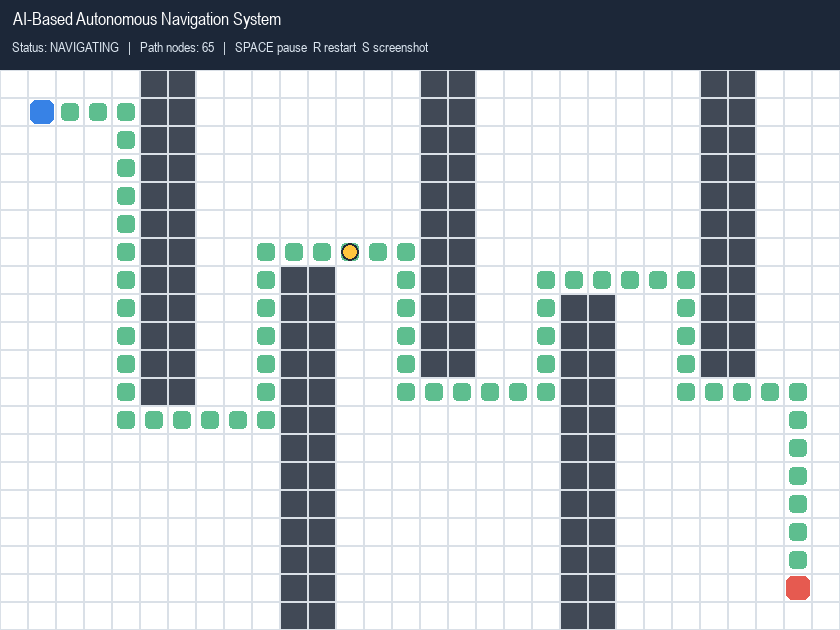
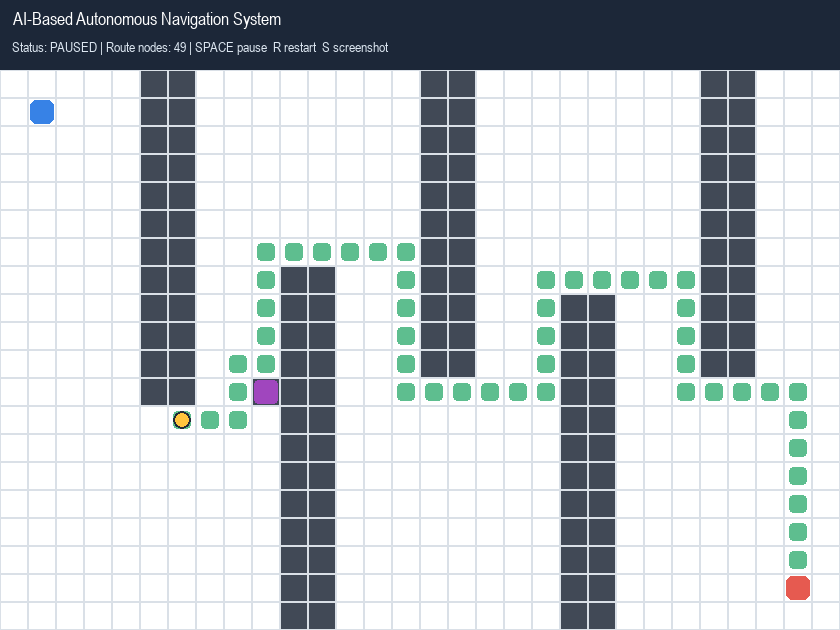
Add dynamic obstacle detection and A* replanning

diff --git a/src/simulator.py b/src/simulator.py
@@ -1,3 +1,4 @@
+
 import time
 from pathlib import Path
 
@@ -12,6 +13,10 @@ from src.grid import build_grid
 from src.metrics import save_run
 
 
+DYNAMIC_OBSTACLE_TRIGGER = 16
+OBSTACLE_AHEAD = 4
+
+
 def run_simulation():
     pygame.init()
     screen = pygame.display.set_mode((WINDOW_WIDTH, WINDOW_HEIGHT))
@@ -20,111 +25,271 @@ def run_simulation():
     font = pygame.font.SysFont("arial", 18)
     small_font = pygame.font.SysFont("arial", 14)
 
-    grid = build_grid()
-    path = astar(grid, START, GOAL)
-    if not path:
-        print("No valid path found. Check the map and start/goal positions.")
+    output_dir = Path("outputs")
+    output_dir.mkdir(exist_ok=True)
+
+    def reset_simulation():
+        grid = build_grid()
+        path = astar(grid, START, GOAL)
+        if not path:
+            return None
+
+        return {
+            "grid": grid,
+            "path": path,
+            "initial_path_nodes": len(path),
+            "agent_index": 0,
+            "frame_counter": 0,
+            "paused": False,
+            "finished": False,
+            "no_route": False,
+            "obstacle_added": False,
+            "dynamic_obstacle": None,
+            "replanned": False,
+            "start_time": time.perf_counter(),
+            "total_steps": 0,
+        }
+
+    state = reset_simulation()
+    if state is None:
+        print("No valid initial path found. Check the map.")
         pygame.quit()
         return
 
-    print(f"Path found: {len(path)} nodes")
-    print("Controls: SPACE = pause/resume | R = restart | S = save screenshot | ESC = quit")
-
-    agent_index = 0
-    frame_counter = 0
-    paused = False
-    finished = False
-    start_time = time.perf_counter()
-    end_time = None
-    output_dir = Path("outputs")
-    output_dir.mkdir(exist_ok=True)
+    print(f"Initial path found: {len(state['path'])} nodes")
+    print(
+        "Controls: SPACE = pause/resume | R = restart | "
+        "S = save screenshot | ESC = quit"
+    )
+    print("A temporary obstacle will appear automatically during the run.")
 
     running = True
     while running:
         for event in pygame.event.get():
             if event.type == pygame.QUIT:
                 running = False
+
             elif event.type == pygame.KEYDOWN:
                 if event.key == pygame.K_ESCAPE:
                     running = False
-                elif event.key == pygame.K_SPACE and not finished:
-                    paused = not paused
+
+                elif event.key == pygame.K_SPACE and not state["finished"]:
+                    state["paused"] = not state["paused"]
+
                 elif event.key == pygame.K_r:
-                    agent_index = 0
-                    frame_counter = 0
-                    paused = False
-                    finished = False
-                    start_time = time.perf_counter()
-                    end_time = None
+                    state = reset_simulation()
+                    if state is None:
+                        print("Unable to restart: no initial path found.")
+                        running = False
+                    else:
+                        print("Simulation restarted.")
+
                 elif event.key == pygame.K_s:
                     screenshot_path = output_dir / "navigation_demo.png"
                     pygame.image.save(screen, screenshot_path)
                     print(f"Screenshot saved to {screenshot_path}")
 
-        if not paused and not finished:
-            frame_counter += 1
-            if frame_counter >= AGENT_STEP_FRAMES:
-                frame_counter = 0
-                if agent_index < len(path) - 1:
-                    agent_index += 1
-                if agent_index >= len(path) - 1:
-                    finished = True
-                    end_time = time.perf_counter()
-                    elapsed = end_time - start_time
-                    save_run(output_dir / "run_metrics.csv", "success", len(path),
-                             len(path) - 1, elapsed)
-                    print(f"Goal reached! Movement steps: {len(path)-1}; time: {elapsed:.2f}s")
+        if not running:
+            break
+
+        if not state["paused"] and not state["finished"]:
+            state["frame_counter"] += 1
+
+            if state["frame_counter"] >= AGENT_STEP_FRAMES:
+                state["frame_counter"] = 0
+
+                if state["agent_index"] < len(state["path"]) - 1:
+                    state["agent_index"] += 1
+                    state["total_steps"] += 1
+
+                # Add one temporary obstacle ahead of the moving agent.
+                if (
+                    not state["obstacle_added"]
+                    and state["agent_index"] >= DYNAMIC_OBSTACLE_TRIGGER
+                ):
+                    obstacle_index = state["agent_index"] + OBSTACLE_AHEAD
+                    current_position = state["path"][state["agent_index"]]
+
+                    if obstacle_index < len(state["path"]) - 1:
+                        obstacle = state["path"][obstacle_index]
+                        ox, oy = obstacle
+
+                        # Never block the agent's current cell or the goal.
+                        if obstacle != current_position and obstacle != GOAL:
+                            state["grid"][oy][ox] = 1
+                            state["dynamic_obstacle"] = obstacle
+                            state["obstacle_added"] = True
+
+                            print(f"Dynamic obstacle appeared at {obstacle}.")
+                            print("Checking the remaining route with A*...")
+
+                            new_path = astar(
+                                state["grid"], current_position, GOAL
+                            )
+
+                            if new_path:
+                                state["path"] = new_path
+                                state["agent_index"] = 0
+                                state["replanned"] = True
+                                print(
+                                    "Route replanned successfully: "
+                                    f"{len(new_path)} nodes remaining."
+                                )
+                            else:
+                                state["no_route"] = True
+                                state["finished"] = True
+                                elapsed = (
+                                    time.perf_counter() - state["start_time"]
+                                )
+                                save_run(
+                                    output_dir / "run_metrics.csv",
+                                    "no_path",
+                                    state["initial_path_nodes"],
+                                    state["total_steps"],
+                                    elapsed,
+                                )
+                                print("No safe route remains. Agent stopped.")
+
+                # Check whether the agent reached the goal.
+                if not state["finished"] and state["path"][
+                    state["agent_index"]
+                ] == GOAL:
+                    state["finished"] = True
+                    elapsed = time.perf_counter() - state["start_time"]
+                    save_run(
+                        output_dir / "run_metrics.csv",
+                        "success",
+                        state["initial_path_nodes"],
+                        state["total_steps"],
+                        elapsed,
+                    )
+                    print(
+                        f"Goal reached! Total movement steps: "
+                        f"{state['total_steps']}; time: {elapsed:.2f}s"
+                    )
                     print(f"Metrics saved to {output_dir / 'run_metrics.csv'}")
 
+        # Draw the scene.
         screen.fill((245, 247, 250))
         header = pygame.Rect(0, 0, WINDOW_WIDTH, TOP_BAR)
         pygame.draw.rect(screen, (28, 39, 56), header)
-        title = font.render("AI-Based Autonomous Navigation System", True, (255, 255, 255))
+
+        title = font.render(
+            "AI-Based Autonomous Navigation System",
+            True,
+            (255, 255, 255),
+        )
         screen.blit(title, (12, 8))
-        status = "GOAL REACHED" if finished else ("PAUSED" if paused else "NAVIGATING")
+
+        if state["no_route"]:
+            status = "NO ROUTE - AGENT STOPPED"
+        elif state["finished"]:
+            status = "GOAL REACHED"
+        elif state["paused"]:
+            status = "PAUSED"
+        elif state["replanned"]:
+            status = "ROUTE REPLANNED"
+        else:
+            status = "NAVIGATING"
+
         info = small_font.render(
-            f"Status: {status}   |   Path nodes: {len(path)}   |   SPACE pause  R restart  S screenshot",
-            True, (220, 230, 240))
+            f"Status: {status} | Route nodes: {len(state['path'])} | "
+            "SPACE pause  R restart  S screenshot",
+            True,
+            (220, 230, 240),
+        )
         screen.blit(info, (12, 38))
 
-        # Draw grid cells.
+        # Draw free cells and the original obstacles.
         for y in range(ROWS):
             for x in range(COLS):
-                rect = pygame.Rect(x * CELL_SIZE, TOP_BAR + y * CELL_SIZE, CELL_SIZE, CELL_SIZE)
-                if grid[y][x] == 1:
+                rect = pygame.Rect(
+                    x * CELL_SIZE,
+                    TOP_BAR + y * CELL_SIZE,
+                    CELL_SIZE,
+                    CELL_SIZE,
+                )
+                if state["grid"][y][x] == 1:
                     pygame.draw.rect(screen, (65, 73, 86), rect)
                 else:
                     pygame.draw.rect(screen, (255, 255, 255), rect)
                 pygame.draw.rect(screen, (218, 224, 231), rect, 1)
 
-        # Draw planned path.
-        for x, y in path:
-            rect = pygame.Rect(x * CELL_SIZE + 5, TOP_BAR + y * CELL_SIZE + 5,
-                               CELL_SIZE - 10, CELL_SIZE - 10)
-            pygame.draw.rect(screen, (94, 190, 143), rect, border_radius=4)
+        # Draw the currently planned route.
+        for x, y in state["path"]:
+            rect = pygame.Rect(
+                x * CELL_SIZE + 5,
+                TOP_BAR + y * CELL_SIZE + 5,
+                CELL_SIZE - 10,
+                CELL_SIZE - 10,
+            )
+            pygame.draw.rect(
+                screen, (94, 190, 143), rect, border_radius=4
+            )
+
+        # Highlight the temporary obstacle in purple.
+        if state["dynamic_obstacle"] is not None:
+            ox, oy = state["dynamic_obstacle"]
+            rect = pygame.Rect(
+                ox * CELL_SIZE + 2,
+                TOP_BAR + oy * CELL_SIZE + 2,
+                CELL_SIZE - 4,
+                CELL_SIZE - 4,
+            )
+            pygame.draw.rect(
+                screen, (160, 70, 190), rect, border_radius=4
+            )
 
         # Start and goal markers.
         sx, sy = START
         gx, gy = GOAL
-        pygame.draw.rect(screen, (55, 130, 230),
-                         (sx * CELL_SIZE + 2, TOP_BAR + sy * CELL_SIZE + 2,
-                          CELL_SIZE - 4, CELL_SIZE - 4), border_radius=6)
-        pygame.draw.rect(screen, (230, 90, 80),
-                         (gx * CELL_SIZE + 2, TOP_BAR + gy * CELL_SIZE + 2,
-                          CELL_SIZE - 4, CELL_SIZE - 4), border_radius=6)
+        pygame.draw.rect(
+            screen,
+            (55, 130, 230),
+            (
+                sx * CELL_SIZE + 2,
+                TOP_BAR + sy * CELL_SIZE + 2,
+                CELL_SIZE - 4,
+                CELL_SIZE - 4,
+            ),
+            border_radius=6,
+        )
+        pygame.draw.rect(
+            screen,
+            (230, 90, 80),
+            (
+                gx * CELL_SIZE + 2,
+                TOP_BAR + gy * CELL_SIZE + 2,
+                CELL_SIZE - 4,
+                CELL_SIZE - 4,
+            ),
+            border_radius=6,
+        )
 
-        # Draw the moving virtual agent.
-        ax, ay = path[agent_index]
-        center = (ax * CELL_SIZE + CELL_SIZE // 2,
-                  TOP_BAR + ay * CELL_SIZE + CELL_SIZE // 2)
-        pygame.draw.circle(screen, (255, 196, 61), center, CELL_SIZE // 3)
-        pygame.draw.circle(screen, (35, 43, 55), center, CELL_SIZE // 3, 2)
+        # Draw the virtual agent at its current position.
+        ax, ay = state["path"][state["agent_index"]]
+        center = (
+            ax * CELL_SIZE + CELL_SIZE // 2,
+            TOP_BAR + ay * CELL_SIZE + CELL_SIZE // 2,
+        )
+        pygame.draw.circle(
+            screen, (255, 196, 61), center, CELL_SIZE // 3
+        )
+        pygame.draw.circle(
+            screen, (35, 43, 55), center, CELL_SIZE // 3, 2
+        )
 
         pygame.display.flip()
         clock.tick(FPS)
 
-    # Save a final metrics row if the user closes early.
-    if not finished:
-        save_run(output_dir / "run_metrics.csv", "stopped_early", len(path),
-                 agent_index, time.perf_counter() - start_time)
+    # Record an early stop, but don't duplicate completed-run metrics.
+    if not state["finished"]:
+        save_run(
+            output_dir / "run_metrics.csv",
+            "stopped_early",
+            state["initial_path_nodes"],
+            state["total_steps"],
+            time.perf_counter() - state["start_time"],
+        )
+
     pygame.quit()

diff --git a/tests/test_astar.py b/tests/test_astar.py
@@ -26,6 +26,29 @@ class AStarTests(unittest.TestCase):
     def test_start_equals_goal(self):
         self.assertEqual(astar([[0]], (0, 0), (0, 0)), [(0, 0)])
 
+    def test_replans_when_new_obstacle_blocks_old_path(self):
+        grid = [
+            [0, 0, 0, 0],
+            [0, 0, 0, 0],
+            [0, 0, 0, 0],
+            [0, 0, 0, 0],
+        ]
+        start = (0, 1)
+        goal = (3, 1)
+        original_path = astar(grid, start, goal)
+        self.assertTrue(original_path)
+
+        blocked_cell = original_path[1]
+        x, y = blocked_cell
+        grid[y][x] = 1
+        new_path = astar(grid, start, goal)
+
+        self.assertTrue(new_path)
+        self.assertEqual(new_path[0], start)
+        self.assertEqual(new_path[-1], goal)
+        self.assertNotIn(blocked_cell, new_path)
+        self.assertTrue(all(grid[py][px] == 0 for px, py in new_path))
+
 
 if __name__ == "__main__":
     unittest.main()
